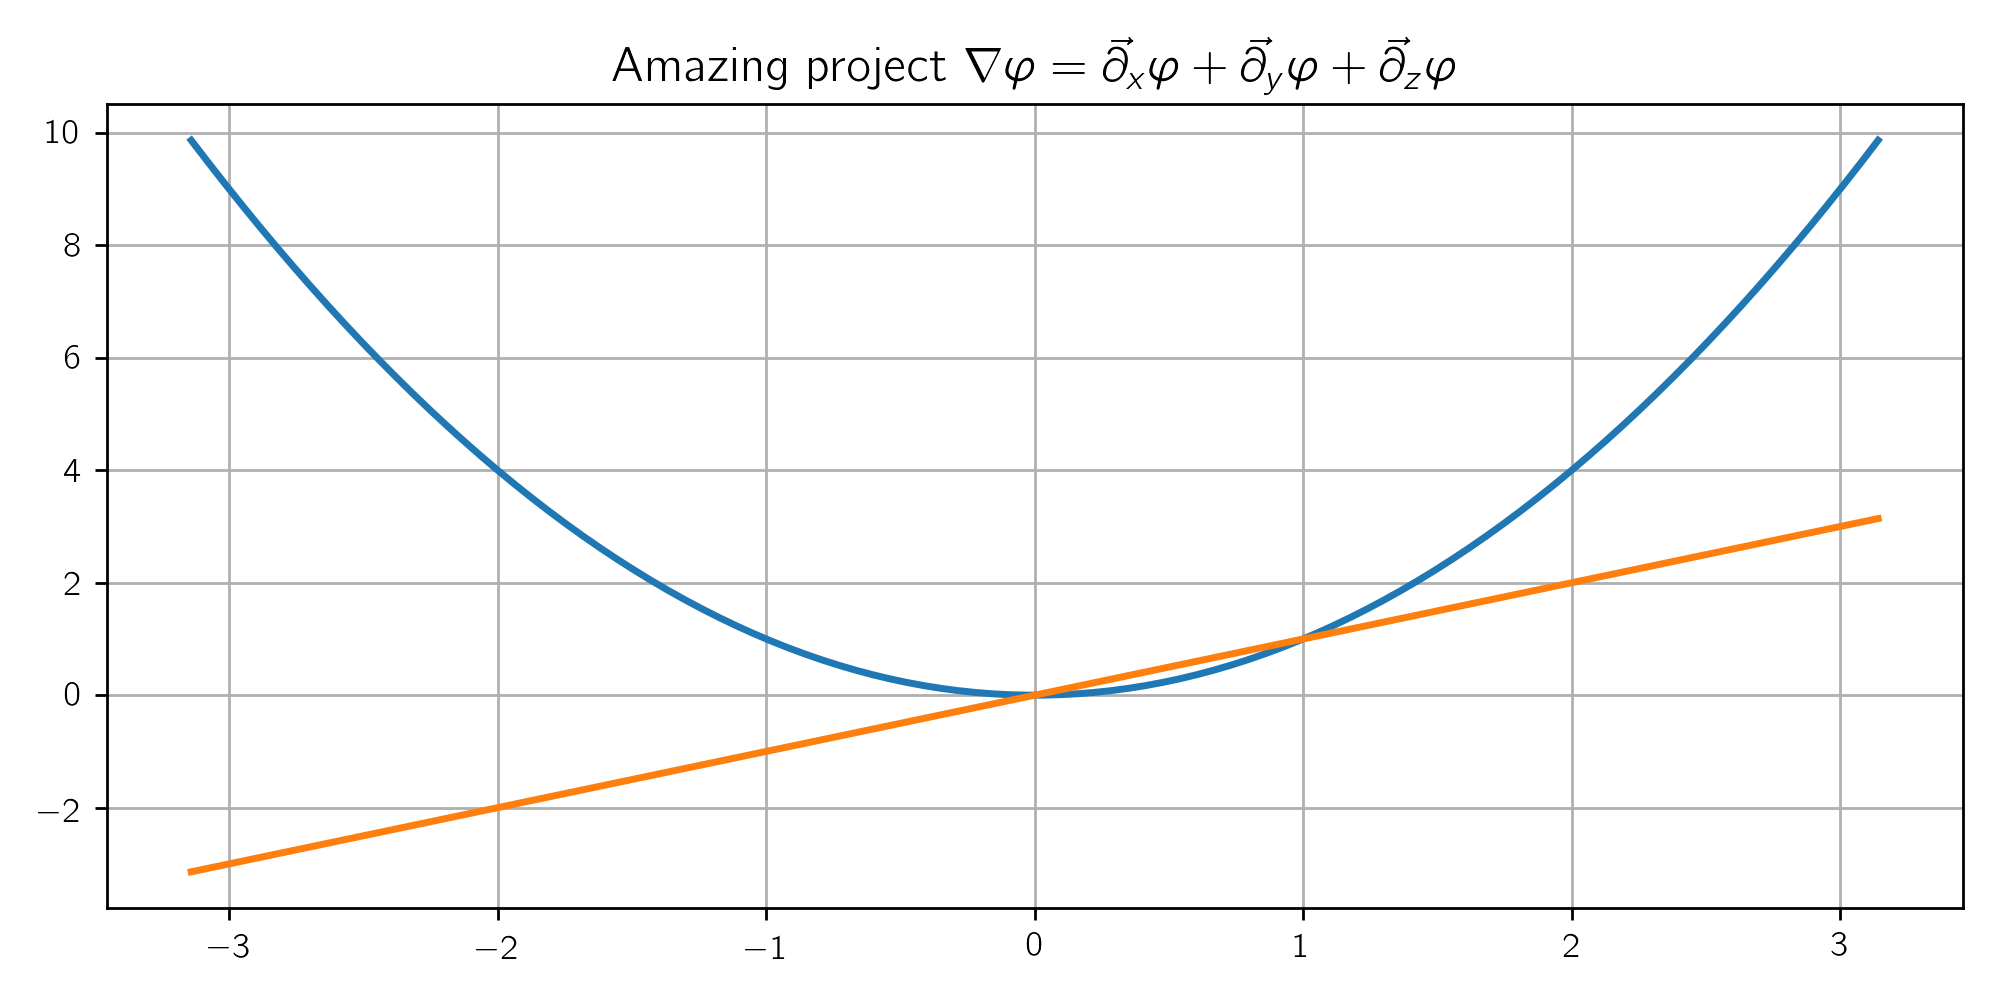
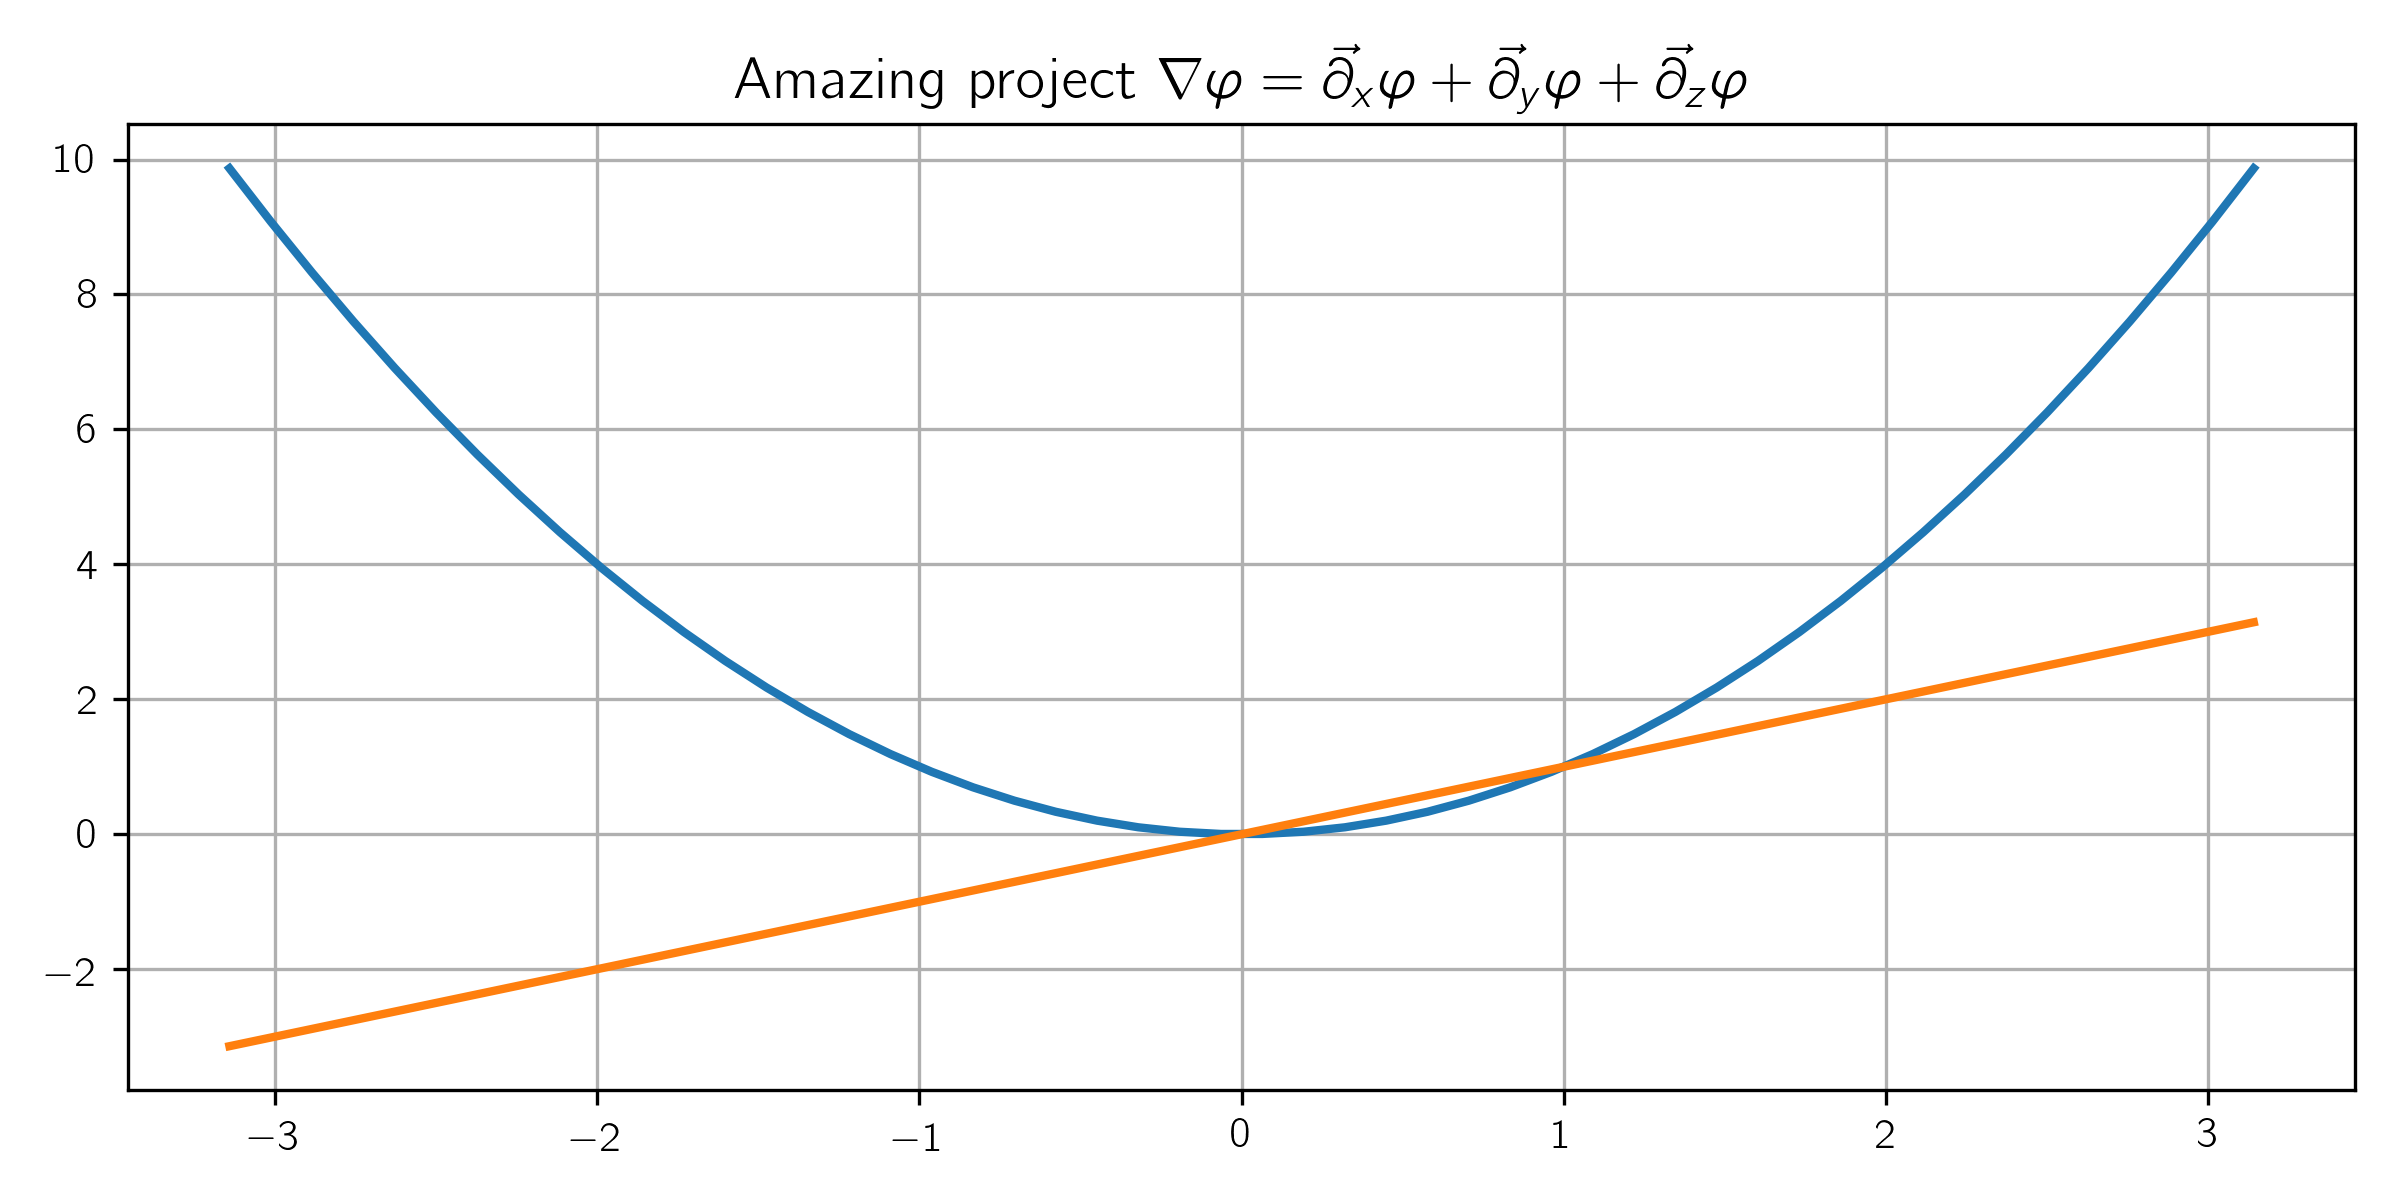
resolution changes

diff --git a/Electromagnetism_I/Project/python_code/splot.py b/Electromagnetism_I/Project/python_code/splot.py
@@ -19,7 +19,7 @@ def splot(X, Y, title = '', axis = ['', ''], sname = ''):
     axis       : list with two elements containing name of x- and y axis 
     sname      : name of saved plot file
     '''
-    fig, ax = plt.subplots(1, figsize=(8, 4), dpi = 250)
+    fig, ax = plt.subplots(1, figsize=(8, 4))
     
     ax.set_title(title, size = 14)
     
@@ -33,12 +33,12 @@ def splot(X, Y, title = '', axis = ['', ''], sname = ''):
 
     plt.tight_layout()
     if sname != '':
-        plt.savefig(sname, transparent = True)
+        plt.savefig(sname, transparent = True, dpi = 300)
     plt.show()
 
 ### TEST CODE ###
 import numpy as np
-x1 = np.linspace(-np.pi, np.pi, 100)
+x1 = np.linspace(-np.pi, np.pi)
 y1 = (lambda x: x**2)(x1)
 y2 = (lambda x: x)(x1)
 
